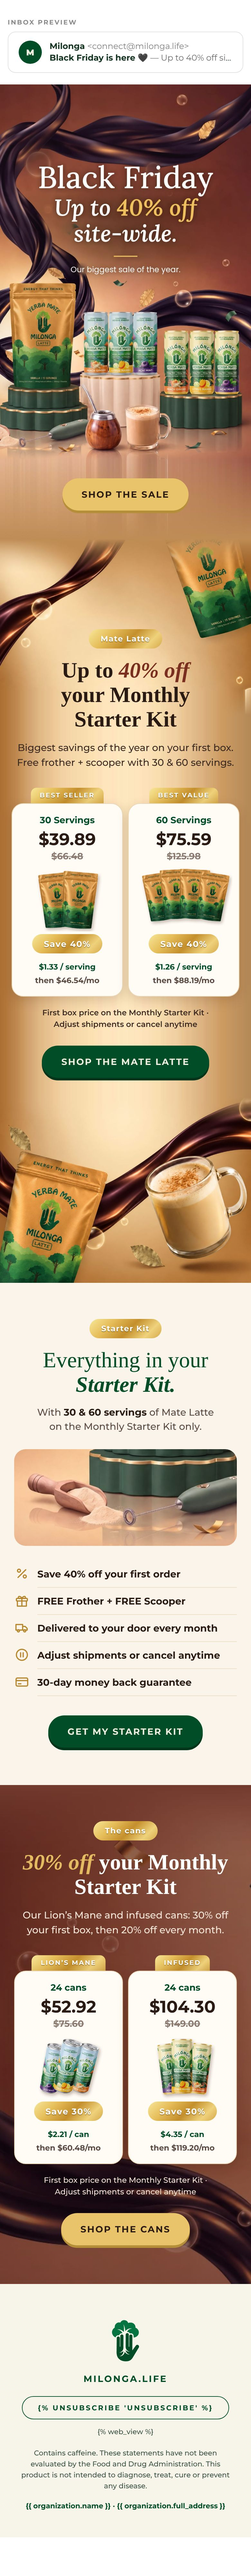
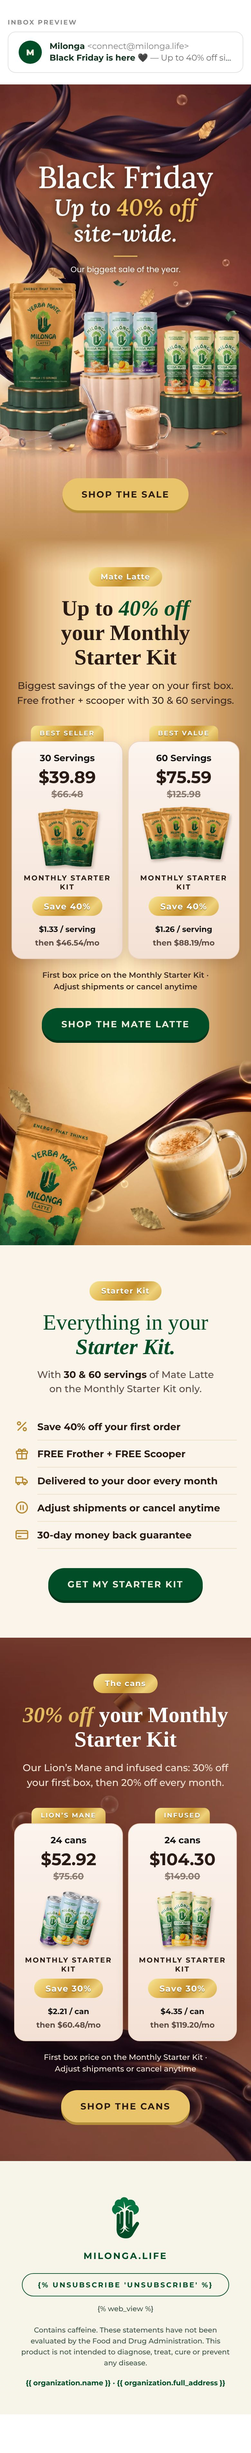
Black Friday 2026 v4: title higher, blush cards with Monthly Starter Kit label, black type, no tools photo
Claude-Session: https://claude.ai/code/session_01NhEtXPnfeCJfN73SqBkUZ5

diff --git a/email-ds/exports/klaviyo/bf-2026/bf-2026.html b/email-ds/exports/klaviyo/bf-2026/bf-2026.html
@@ -35,7 +35,7 @@
     .c-price { font-size:26px !important; line-height:30px !important; }
     .c-img { width:150px !important; height:100px !important; }
     .c-unit { font-size:12px !important; }
-    .ml-sec { padding:140px 14px 30px !important; background-size:100% auto !important; }
+    .ml-sec { padding:44px 14px 30px !important; background-size:100% auto !important; }
     .kit { padding-left:22px !important; padding-right:22px !important; }
     .kit-list { width:100% !important; }
     .btn { padding:17px 30px !important; font-size:14px !important; letter-spacing:1.5px !important; }
@@ -65,21 +65,22 @@
 
 <!-- ── 2 · MATE LATTE · the gold scene with its liquid turned dark chocolate is the background; the scene's
      pouch and latte close the section ── -->
-<tr><td class="ml-sec" align="center" valign="top" background="https://cdn.klaviyomail.com/company/TwvSnK/images/287e86d2-df81-468b-888f-244da2249d89.jpeg" bgcolor="#E5C08F" style="background-color:#E5C08F;background-image:url('https://cdn.klaviyomail.com/company/TwvSnK/images/287e86d2-df81-468b-888f-244da2249d89.jpeg');background-size:100% auto;background-position:center top;background-repeat:no-repeat;padding:212px 22px 34px;font-family:'Montserrat','Helvetica Neue',Helvetica,Arial,sans-serif;">
+<tr><td class="ml-sec" align="center" valign="top" background="https://cdn.klaviyomail.com/company/TwvSnK/images/287e86d2-df81-468b-888f-244da2249d89.jpeg" bgcolor="#E5C08F" style="background-color:#E5C08F;background-image:url('https://cdn.klaviyomail.com/company/TwvSnK/images/287e86d2-df81-468b-888f-244da2249d89.jpeg');background-size:100% auto;background-position:center top;background-repeat:no-repeat;padding:56px 22px 34px;font-family:'Montserrat','Helvetica Neue',Helvetica,Arial,sans-serif;">
 <table role="presentation" cellpadding="0" cellspacing="0" border="0" align="center" style="margin:0 auto;border-collapse:separate;"><tr><td bgcolor="#D2A346" style="background-color:#D2A346;background-image:linear-gradient(135deg,#F8E79A 0%,#E6BE5A 28%,#C48F2C 55%,#EFD27C 80%,#D5A84A 100%);border-radius:999px;padding:7px 18px;font-family:'Montserrat','Helvetica Neue',Helvetica,Arial,sans-serif;font-size:12px;line-height:16px;font-weight:700;letter-spacing:1px;color:#FFFFFF;text-shadow:0 1px 1px rgba(90,55,10,.55);white-space:nowrap;">Mate Latte</td></tr></table>
-<div class="h-offer" style="padding-top:16px;font-family:'Times New Roman',Times,Georgia,serif;font-size:42px;line-height:46px;font-weight:700;color:#2A1A14;">Up to <span style="color:#7A2E1F;font-style:italic;">40% off</span> <span style="white-space:nowrap;">your Monthly</span> <span style="white-space:nowrap;">Starter Kit</span></div>
+<div class="h-offer" style="padding-top:16px;font-family:'Times New Roman',Times,Georgia,serif;font-size:42px;line-height:46px;font-weight:700;color:#2A1A14;">Up to <span style="color:#004D27;font-style:italic;">40% off</span> <span style="white-space:nowrap;">your Monthly</span> <span style="white-space:nowrap;">Starter Kit</span></div>
 <div class="lead" style="padding-top:12px;font-size:15px;line-height:22px;font-weight:500;color:#3A2A22;">Biggest savings of the year on your first box. <span style="white-space:nowrap;">Free frother + scooper</span> <span style="white-space:nowrap;">with 30 & 60 servings.</span></div>
 <div style="padding-top:28px;"><table role="presentation" width="100%" cellpadding="0" cellspacing="0" border="0" style="table-layout:fixed;"><tr>
 <td class="card-col" align="center" valign="top" width="50%" style="width:50%;padding:0 8px;">
 <table role="presentation" cellpadding="0" cellspacing="0" border="0" align="center" style="margin:0 auto;border-collapse:separate;"><tr><td bgcolor="#D2A346" style="background-color:#D2A346;background-image:linear-gradient(135deg,#F8E79A 0%,#E6BE5A 28%,#C48F2C 55%,#EFD27C 80%,#D5A84A 100%);border-radius:9px 9px 0 0;padding:5px 14px;font-family:'Montserrat','Helvetica Neue',Helvetica,Arial,sans-serif;font-size:10px;line-height:14px;font-weight:700;letter-spacing:1.5px;text-transform:uppercase;color:#FFFFFF;text-shadow:0 1px 1px rgba(90,55,10,.55);white-space:nowrap;">Best seller</td></tr></table>
 <a href="https://milonga.life/products/the-original-mate-latte?selling_plan=8837562678&amp;variant=54302750245174&amp;utm_source=klaviyo&amp;utm_medium=email&amp;utm_campaign=black_friday_2026&amp;utm_content=bf_ml_30" target="_blank" style="text-decoration:none;display:block;">
-<table role="presentation" width="100%" cellpadding="0" cellspacing="0" border="0" style="border-collapse:separate;"><tr><td class="card" align="center" bgcolor="#FFFBF5" style="background-color:#FFFBF5;border:1px solid #EAD6B4;border-radius:18px;padding:20px 10px 18px;font-family:'Montserrat','Helvetica Neue',Helvetica,Arial,sans-serif;box-shadow:0 6px 18px rgba(60,30,10,.18);">
-<div style="font-size:14px;line-height:18px;font-weight:700;color:#004D27;">30 Servings</div>
+<table role="presentation" width="100%" cellpadding="0" cellspacing="0" border="0" style="border-collapse:separate;"><tr><td class="card" align="center" bgcolor="#F6E6DC" style="background-color:#F6E6DC;background-image:linear-gradient(180deg,#FCF4EE 0%,#F4E1D5 100%);border:1px solid #EBD3C4;border-radius:18px;padding:20px 10px 18px;font-family:'Montserrat','Helvetica Neue',Helvetica,Arial,sans-serif;box-shadow:0 6px 18px rgba(60,30,10,.18);">
+<div style="font-size:14px;line-height:18px;font-weight:700;color:#141414;">30 Servings</div>
 <div class="c-price" style="padding-top:6px;font-size:34px;line-height:38px;font-weight:700;color:#2A1A14;">$39.89</div>
 <div style="padding-top:2px;font-size:14px;line-height:18px;font-weight:700;color:#8A7A70;text-decoration:line-through;">$66.48</div>
 <img class="c-img" src="https://cdn.klaviyomail.com/company/TwvSnK/images/7b6e7cd1-ea70-4c06-80c6-dc8d8365da27.png" width="210" height="140" alt="Two Mate Latte pouches" style="display:block;margin:8px auto 4px;width:210px;height:140px;border:0;">
+<div style="padding:2px 0 8px;font-size:11px;line-height:14px;font-weight:700;letter-spacing:1.5px;text-transform:uppercase;color:#2A1A14;">Monthly Starter Kit</div>
 <table role="presentation" cellpadding="0" cellspacing="0" border="0" align="center" style="margin:0 auto;border-collapse:separate;"><tr><td bgcolor="#D2A346" style="background-color:#D2A346;background-image:linear-gradient(135deg,#F8E79A 0%,#E6BE5A 28%,#C48F2C 55%,#EFD27C 80%,#D5A84A 100%);border-radius:999px;padding:7px 18px;font-family:'Montserrat','Helvetica Neue',Helvetica,Arial,sans-serif;font-size:13px;line-height:16px;font-weight:700;letter-spacing:1px;color:#FFFFFF;text-shadow:0 1px 1px rgba(90,55,10,.55);white-space:nowrap;">Save 40%</td></tr></table>
-<div class="c-unit" style="padding-top:12px;font-size:14px;line-height:18px;font-weight:700;color:#004D27;">$1.33 / serving</div>
+<div class="c-unit" style="padding-top:12px;font-size:14px;line-height:18px;font-weight:700;color:#141414;">$1.33 / serving</div>
 <div style="padding-top:4px;font-size:12px;line-height:16px;font-weight:700;color:#5A4A42;">then $46.54/mo</div>
 </td></tr></table>
 </a>
@@ -87,13 +88,14 @@
 <td class="card-col" align="center" valign="top" width="50%" style="width:50%;padding:0 8px;">
 <table role="presentation" cellpadding="0" cellspacing="0" border="0" align="center" style="margin:0 auto;border-collapse:separate;"><tr><td bgcolor="#D2A346" style="background-color:#D2A346;background-image:linear-gradient(135deg,#F8E79A 0%,#E6BE5A 28%,#C48F2C 55%,#EFD27C 80%,#D5A84A 100%);border-radius:9px 9px 0 0;padding:5px 14px;font-family:'Montserrat','Helvetica Neue',Helvetica,Arial,sans-serif;font-size:10px;line-height:14px;font-weight:700;letter-spacing:1.5px;text-transform:uppercase;color:#FFFFFF;text-shadow:0 1px 1px rgba(90,55,10,.55);white-space:nowrap;">Best value</td></tr></table>
 <a href="https://milonga.life/products/the-original-mate-latte?selling_plan=8837562678&amp;variant=54302750277942&amp;utm_source=klaviyo&amp;utm_medium=email&amp;utm_campaign=black_friday_2026&amp;utm_content=bf_ml_60" target="_blank" style="text-decoration:none;display:block;">
-<table role="presentation" width="100%" cellpadding="0" cellspacing="0" border="0" style="border-collapse:separate;"><tr><td class="card" align="center" bgcolor="#FFFBF5" style="background-color:#FFFBF5;border:1px solid #EAD6B4;border-radius:18px;padding:20px 10px 18px;font-family:'Montserrat','Helvetica Neue',Helvetica,Arial,sans-serif;box-shadow:0 6px 18px rgba(60,30,10,.18);">
-<div style="font-size:14px;line-height:18px;font-weight:700;color:#004D27;">60 Servings</div>
+<table role="presentation" width="100%" cellpadding="0" cellspacing="0" border="0" style="border-collapse:separate;"><tr><td class="card" align="center" bgcolor="#F6E6DC" style="background-color:#F6E6DC;background-image:linear-gradient(180deg,#FCF4EE 0%,#F4E1D5 100%);border:1px solid #EBD3C4;border-radius:18px;padding:20px 10px 18px;font-family:'Montserrat','Helvetica Neue',Helvetica,Arial,sans-serif;box-shadow:0 6px 18px rgba(60,30,10,.18);">
+<div style="font-size:14px;line-height:18px;font-weight:700;color:#141414;">60 Servings</div>
 <div class="c-price" style="padding-top:6px;font-size:34px;line-height:38px;font-weight:700;color:#2A1A14;">$75.59</div>
 <div style="padding-top:2px;font-size:14px;line-height:18px;font-weight:700;color:#8A7A70;text-decoration:line-through;">$125.98</div>
 <img class="c-img" src="https://cdn.klaviyomail.com/company/TwvSnK/images/cb792bc0-a51c-4dee-8953-5c1e406d2ee3.png" width="210" height="140" alt="Four Mate Latte pouches" style="display:block;margin:8px auto 4px;width:210px;height:140px;border:0;">
+<div style="padding:2px 0 8px;font-size:11px;line-height:14px;font-weight:700;letter-spacing:1.5px;text-transform:uppercase;color:#2A1A14;">Monthly Starter Kit</div>
 <table role="presentation" cellpadding="0" cellspacing="0" border="0" align="center" style="margin:0 auto;border-collapse:separate;"><tr><td bgcolor="#D2A346" style="background-color:#D2A346;background-image:linear-gradient(135deg,#F8E79A 0%,#E6BE5A 28%,#C48F2C 55%,#EFD27C 80%,#D5A84A 100%);border-radius:999px;padding:7px 18px;font-family:'Montserrat','Helvetica Neue',Helvetica,Arial,sans-serif;font-size:13px;line-height:16px;font-weight:700;letter-spacing:1px;color:#FFFFFF;text-shadow:0 1px 1px rgba(90,55,10,.55);white-space:nowrap;">Save 40%</td></tr></table>
-<div class="c-unit" style="padding-top:12px;font-size:14px;line-height:18px;font-weight:700;color:#004D27;">$1.26 / serving</div>
+<div class="c-unit" style="padding-top:12px;font-size:14px;line-height:18px;font-weight:700;color:#141414;">$1.26 / serving</div>
 <div style="padding-top:4px;font-size:12px;line-height:16px;font-weight:700;color:#5A4A42;">then $88.19/mo</div>
 </td></tr></table>
 </a>
@@ -112,8 +114,7 @@
 <div class="h-offer" style="padding-top:16px;font-family:'Times New Roman',Times,Georgia,serif;font-size:40px;line-height:44px;font-weight:400;color:#004D27;">Everything in your</div>
 <div class="h-offer" style="font-family:'Times New Roman',Times,Georgia,serif;font-size:40px;line-height:44px;font-weight:700;font-style:italic;color:#004D27;">Starter Kit.</div>
 <div style="padding-top:12px;font-size:15px;line-height:22px;font-weight:500;color:#5A4A42;">With <b style="color:#2A1A14;">30 &amp; 60 servings</b> of Mate Latte <span style="white-space:nowrap;">on the Monthly Starter Kit only.</span></div>
-<div style="padding-top:24px;"><img class="photo" src="https://cdn.klaviyomail.com/company/TwvSnK/images/321ea88e-d0b0-4ecd-80c0-7d81972eb7c6.jpeg" width="500" height="217" alt="The frother and the scooper" style="display:block;margin:0 auto;width:500px;height:217px;border:0;border-radius:18px;"></div>
-<table role="presentation" class="kit-list" width="380" cellpadding="0" cellspacing="0" border="0" align="center" style="margin:22px auto 0;width:380px;text-align:left;">
+<table role="presentation" class="kit-list" width="380" cellpadding="0" cellspacing="0" border="0" align="center" style="margin:26px auto 0;width:380px;text-align:left;">
 <tr><td width="36" valign="middle" style="width:36px;padding:9px 0;"><img src="https://cdn.klaviyomail.com/company/TwvSnK/images/298dca91-c865-4fbd-a20a-7eef59dfd2a5.png" width="24" height="24" alt="" role="presentation" style="display:block;width:24px;height:24px;border:0;"></td><td valign="middle" style="padding:9px 0;font-family:'Montserrat','Helvetica Neue',Helvetica,Arial,sans-serif;font-size:15px;line-height:21px;font-weight:700;color:#2A1A14;border-bottom:1px solid #EFDFC6;">Save 40% off your first order</td></tr>
 <tr><td width="36" valign="middle" style="width:36px;padding:9px 0;"><img src="https://cdn.klaviyomail.com/company/TwvSnK/images/6ea66d49-d17e-4842-b7ef-51cfed05a0a5.png" width="24" height="24" alt="" role="presentation" style="display:block;width:24px;height:24px;border:0;"></td><td valign="middle" style="padding:9px 0;font-family:'Montserrat','Helvetica Neue',Helvetica,Arial,sans-serif;font-size:15px;line-height:21px;font-weight:700;color:#2A1A14;border-bottom:1px solid #EFDFC6;">FREE Frother + FREE Scooper</td></tr>
 <tr><td width="36" valign="middle" style="width:36px;padding:9px 0;"><img src="https://cdn.klaviyomail.com/company/TwvSnK/images/abfab9c8-eb93-4d4a-8f54-6b63d7238e4b.png" width="24" height="24" alt="" role="presentation" style="display:block;width:24px;height:24px;border:0;"></td><td valign="middle" style="padding:9px 0;font-family:'Montserrat','Helvetica Neue',Helvetica,Arial,sans-serif;font-size:15px;line-height:21px;font-weight:700;color:#2A1A14;border-bottom:1px solid #EFDFC6;">Delivered to your door every month</td></tr>
@@ -134,13 +135,14 @@
 <td class="card-col" align="center" valign="top" width="50%" style="width:50%;padding:0 8px;">
 <table role="presentation" cellpadding="0" cellspacing="0" border="0" align="center" style="margin:0 auto;border-collapse:separate;"><tr><td bgcolor="#D2A346" style="background-color:#D2A346;background-image:linear-gradient(135deg,#F8E79A 0%,#E6BE5A 28%,#C48F2C 55%,#EFD27C 80%,#D5A84A 100%);border-radius:9px 9px 0 0;padding:5px 14px;font-family:'Montserrat','Helvetica Neue',Helvetica,Arial,sans-serif;font-size:10px;line-height:14px;font-weight:700;letter-spacing:1.5px;text-transform:uppercase;color:#FFFFFF;text-shadow:0 1px 1px rgba(90,55,10,.55);white-space:nowrap;">Lion’s Mane</td></tr></table>
 <a href="https://milonga.life/products/lion-s-mane?selling_plan=6832750902&amp;variant=53053588701494&amp;utm_source=klaviyo&amp;utm_medium=email&amp;utm_campaign=black_friday_2026&amp;utm_content=bf_cans_lm" target="_blank" style="text-decoration:none;display:block;">
-<table role="presentation" width="100%" cellpadding="0" cellspacing="0" border="0" style="border-collapse:separate;"><tr><td class="card" align="center" bgcolor="#FFFBF5" style="background-color:#FFFBF5;border:1px solid #EAD6B4;border-radius:18px;padding:20px 10px 18px;font-family:'Montserrat','Helvetica Neue',Helvetica,Arial,sans-serif;box-shadow:0 6px 18px rgba(60,30,10,.18);">
-<div style="font-size:14px;line-height:18px;font-weight:700;color:#004D27;">24 cans</div>
+<table role="presentation" width="100%" cellpadding="0" cellspacing="0" border="0" style="border-collapse:separate;"><tr><td class="card" align="center" bgcolor="#F6E6DC" style="background-color:#F6E6DC;background-image:linear-gradient(180deg,#FCF4EE 0%,#F4E1D5 100%);border:1px solid #EBD3C4;border-radius:18px;padding:20px 10px 18px;font-family:'Montserrat','Helvetica Neue',Helvetica,Arial,sans-serif;box-shadow:0 6px 18px rgba(60,30,10,.18);">
+<div style="font-size:14px;line-height:18px;font-weight:700;color:#141414;">24 cans</div>
 <div class="c-price" style="padding-top:6px;font-size:34px;line-height:38px;font-weight:700;color:#2A1A14;">$52.92</div>
 <div style="padding-top:2px;font-size:14px;line-height:18px;font-weight:700;color:#8A7A70;text-decoration:line-through;">$75.60</div>
 <img class="c-img" src="https://cdn.klaviyomail.com/company/TwvSnK/images/75cbdfff-bfb1-4106-a2c3-a65d9a4b90b3.png" width="210" height="140" alt="Lion’s Mane cans" style="display:block;margin:8px auto 4px;width:210px;height:140px;border:0;">
+<div style="padding:2px 0 8px;font-size:11px;line-height:14px;font-weight:700;letter-spacing:1.5px;text-transform:uppercase;color:#2A1A14;">Monthly Starter Kit</div>
 <table role="presentation" cellpadding="0" cellspacing="0" border="0" align="center" style="margin:0 auto;border-collapse:separate;"><tr><td bgcolor="#D2A346" style="background-color:#D2A346;background-image:linear-gradient(135deg,#F8E79A 0%,#E6BE5A 28%,#C48F2C 55%,#EFD27C 80%,#D5A84A 100%);border-radius:999px;padding:7px 18px;font-family:'Montserrat','Helvetica Neue',Helvetica,Arial,sans-serif;font-size:13px;line-height:16px;font-weight:700;letter-spacing:1px;color:#FFFFFF;text-shadow:0 1px 1px rgba(90,55,10,.55);white-space:nowrap;">Save 30%</td></tr></table>
-<div class="c-unit" style="padding-top:12px;font-size:14px;line-height:18px;font-weight:700;color:#004D27;">$2.21 / can</div>
+<div class="c-unit" style="padding-top:12px;font-size:14px;line-height:18px;font-weight:700;color:#141414;">$2.21 / can</div>
 <div style="padding-top:4px;font-size:12px;line-height:16px;font-weight:700;color:#5A4A42;">then $60.48/mo</div>
 </td></tr></table>
 </a>
@@ -148,13 +150,14 @@
 <td class="card-col" align="center" valign="top" width="50%" style="width:50%;padding:0 8px;">
 <table role="presentation" cellpadding="0" cellspacing="0" border="0" align="center" style="margin:0 auto;border-collapse:separate;"><tr><td bgcolor="#D2A346" style="background-color:#D2A346;background-image:linear-gradient(135deg,#F8E79A 0%,#E6BE5A 28%,#C48F2C 55%,#EFD27C 80%,#D5A84A 100%);border-radius:9px 9px 0 0;padding:5px 14px;font-family:'Montserrat','Helvetica Neue',Helvetica,Arial,sans-serif;font-size:10px;line-height:14px;font-weight:700;letter-spacing:1.5px;text-transform:uppercase;color:#FFFFFF;text-shadow:0 1px 1px rgba(90,55,10,.55);white-space:nowrap;">Infused</td></tr></table>
 <a href="https://milonga.life/products/cannabis-regular-10mg?selling_plan=6832750902&amp;variant=52759098196278&amp;utm_source=klaviyo&amp;utm_medium=email&amp;utm_campaign=black_friday_2026&amp;utm_content=bf_cans_infused" target="_blank" style="text-decoration:none;display:block;">
-<table role="presentation" width="100%" cellpadding="0" cellspacing="0" border="0" style="border-collapse:separate;"><tr><td class="card" align="center" bgcolor="#FFFBF5" style="background-color:#FFFBF5;border:1px solid #EAD6B4;border-radius:18px;padding:20px 10px 18px;font-family:'Montserrat','Helvetica Neue',Helvetica,Arial,sans-serif;box-shadow:0 6px 18px rgba(60,30,10,.18);">
-<div style="font-size:14px;line-height:18px;font-weight:700;color:#004D27;">24 cans</div>
+<table role="presentation" width="100%" cellpadding="0" cellspacing="0" border="0" style="border-collapse:separate;"><tr><td class="card" align="center" bgcolor="#F6E6DC" style="background-color:#F6E6DC;background-image:linear-gradient(180deg,#FCF4EE 0%,#F4E1D5 100%);border:1px solid #EBD3C4;border-radius:18px;padding:20px 10px 18px;font-family:'Montserrat','Helvetica Neue',Helvetica,Arial,sans-serif;box-shadow:0 6px 18px rgba(60,30,10,.18);">
+<div style="font-size:14px;line-height:18px;font-weight:700;color:#141414;">24 cans</div>
 <div class="c-price" style="padding-top:6px;font-size:34px;line-height:38px;font-weight:700;color:#2A1A14;">$104.30</div>
 <div style="padding-top:2px;font-size:14px;line-height:18px;font-weight:700;color:#8A7A70;text-decoration:line-through;">$149.00</div>
 <img class="c-img" src="https://cdn.klaviyomail.com/company/TwvSnK/images/35f74bfe-ba66-4b5b-af58-0e2a2870cf23.png" width="210" height="140" alt="Infused yerba mate cans" style="display:block;margin:8px auto 4px;width:210px;height:140px;border:0;">
+<div style="padding:2px 0 8px;font-size:11px;line-height:14px;font-weight:700;letter-spacing:1.5px;text-transform:uppercase;color:#2A1A14;">Monthly Starter Kit</div>
 <table role="presentation" cellpadding="0" cellspacing="0" border="0" align="center" style="margin:0 auto;border-collapse:separate;"><tr><td bgcolor="#D2A346" style="background-color:#D2A346;background-image:linear-gradient(135deg,#F8E79A 0%,#E6BE5A 28%,#C48F2C 55%,#EFD27C 80%,#D5A84A 100%);border-radius:999px;padding:7px 18px;font-family:'Montserrat','Helvetica Neue',Helvetica,Arial,sans-serif;font-size:13px;line-height:16px;font-weight:700;letter-spacing:1px;color:#FFFFFF;text-shadow:0 1px 1px rgba(90,55,10,.55);white-space:nowrap;">Save 30%</td></tr></table>
-<div class="c-unit" style="padding-top:12px;font-size:14px;line-height:18px;font-weight:700;color:#004D27;">$4.35 / can</div>
+<div class="c-unit" style="padding-top:12px;font-size:14px;line-height:18px;font-weight:700;color:#141414;">$4.35 / can</div>
 <div style="padding-top:4px;font-size:12px;line-height:16px;font-weight:700;color:#5A4A42;">then $119.20/mo</div>
 </td></tr></table>
 </a>

diff --git a/email-ds/refine/bf-2026.html b/email-ds/refine/bf-2026.html
@@ -33,7 +33,7 @@ body{margin:0;background:#FFFFFF;padding:28px 0 60px}
     .c-price { font-size:26px !important; line-height:30px !important; }
     .c-img { width:150px !important; height:100px !important; }
     .c-unit { font-size:12px !important; }
-    .ml-sec { padding:140px 14px 30px !important; background-size:100% auto !important; }
+    .ml-sec { padding:44px 14px 30px !important; background-size:100% auto !important; }
     .kit { padding-left:22px !important; padding-right:22px !important; }
     .kit-list { width:100% !important; }
     .btn { padding:17px 30px !important; font-size:14px !important; letter-spacing:1.5px !important; }
@@ -64,21 +64,22 @@ body{margin:0;background:#FFFFFF;padding:28px 0 60px}
 
 <!-- ── 2 · MATE LATTE · the gold scene with its liquid turned dark chocolate is the background; the scene's
      pouch and latte close the section ── -->
-<tr><td class="ml-sec" align="center" valign="top" background="../exports/klaviyo/bf-2026/img/ml-bg.jpg" bgcolor="#E5C08F" style="background-color:#E5C08F;background-image:url('../exports/klaviyo/bf-2026/img/ml-bg.jpg');background-size:100% auto;background-position:center top;background-repeat:no-repeat;padding:212px 22px 34px;font-family:'Montserrat','Helvetica Neue',Helvetica,Arial,sans-serif;">
+<tr><td class="ml-sec" align="center" valign="top" background="../exports/klaviyo/bf-2026/img/ml-bg.jpg" bgcolor="#E5C08F" style="background-color:#E5C08F;background-image:url('../exports/klaviyo/bf-2026/img/ml-bg.jpg');background-size:100% auto;background-position:center top;background-repeat:no-repeat;padding:56px 22px 34px;font-family:'Montserrat','Helvetica Neue',Helvetica,Arial,sans-serif;">
 <table role="presentation" cellpadding="0" cellspacing="0" border="0" align="center" style="margin:0 auto;border-collapse:separate;"><tr><td bgcolor="#D2A346" style="background-color:#D2A346;background-image:linear-gradient(135deg,#F8E79A 0%,#E6BE5A 28%,#C48F2C 55%,#EFD27C 80%,#D5A84A 100%);border-radius:999px;padding:7px 18px;font-family:'Montserrat','Helvetica Neue',Helvetica,Arial,sans-serif;font-size:12px;line-height:16px;font-weight:700;letter-spacing:1px;color:#FFFFFF;text-shadow:0 1px 1px rgba(90,55,10,.55);white-space:nowrap;">Mate Latte</td></tr></table>
-<div class="h-offer" style="padding-top:16px;font-family:'Times New Roman',Times,Georgia,serif;font-size:42px;line-height:46px;font-weight:700;color:#2A1A14;">Up to <span style="color:#7A2E1F;font-style:italic;">40% off</span> <span style="white-space:nowrap;">your Monthly</span> <span style="white-space:nowrap;">Starter Kit</span></div>
+<div class="h-offer" style="padding-top:16px;font-family:'Times New Roman',Times,Georgia,serif;font-size:42px;line-height:46px;font-weight:700;color:#2A1A14;">Up to <span style="color:#004D27;font-style:italic;">40% off</span> <span style="white-space:nowrap;">your Monthly</span> <span style="white-space:nowrap;">Starter Kit</span></div>
 <div class="lead" style="padding-top:12px;font-size:15px;line-height:22px;font-weight:500;color:#3A2A22;">Biggest savings of the year on your first box. <span style="white-space:nowrap;">Free frother + scooper</span> <span style="white-space:nowrap;">with 30 & 60 servings.</span></div>
 <div style="padding-top:28px;"><table role="presentation" width="100%" cellpadding="0" cellspacing="0" border="0" style="table-layout:fixed;"><tr>
 <td class="card-col" align="center" valign="top" width="50%" style="width:50%;padding:0 8px;">
 <table role="presentation" cellpadding="0" cellspacing="0" border="0" align="center" style="margin:0 auto;border-collapse:separate;"><tr><td bgcolor="#D2A346" style="background-color:#D2A346;background-image:linear-gradient(135deg,#F8E79A 0%,#E6BE5A 28%,#C48F2C 55%,#EFD27C 80%,#D5A84A 100%);border-radius:9px 9px 0 0;padding:5px 14px;font-family:'Montserrat','Helvetica Neue',Helvetica,Arial,sans-serif;font-size:10px;line-height:14px;font-weight:700;letter-spacing:1.5px;text-transform:uppercase;color:#FFFFFF;text-shadow:0 1px 1px rgba(90,55,10,.55);white-space:nowrap;">Best seller</td></tr></table>
 <a href="https://milonga.life/products/the-original-mate-latte?selling_plan=8837562678&amp;variant=54302750245174&amp;utm_source=klaviyo&amp;utm_medium=email&amp;utm_campaign=black_friday_2026&amp;utm_content=bf_ml_30" target="_blank" style="text-decoration:none;display:block;">
-<table role="presentation" width="100%" cellpadding="0" cellspacing="0" border="0" style="border-collapse:separate;"><tr><td class="card" align="center" bgcolor="#FFFBF5" style="background-color:#FFFBF5;border:1px solid #EAD6B4;border-radius:18px;padding:20px 10px 18px;font-family:'Montserrat','Helvetica Neue',Helvetica,Arial,sans-serif;box-shadow:0 6px 18px rgba(60,30,10,.18);">
-<div style="font-size:14px;line-height:18px;font-weight:700;color:#004D27;">30 Servings</div>
+<table role="presentation" width="100%" cellpadding="0" cellspacing="0" border="0" style="border-collapse:separate;"><tr><td class="card" align="center" bgcolor="#F6E6DC" style="background-color:#F6E6DC;background-image:linear-gradient(180deg,#FCF4EE 0%,#F4E1D5 100%);border:1px solid #EBD3C4;border-radius:18px;padding:20px 10px 18px;font-family:'Montserrat','Helvetica Neue',Helvetica,Arial,sans-serif;box-shadow:0 6px 18px rgba(60,30,10,.18);">
+<div style="font-size:14px;line-height:18px;font-weight:700;color:#141414;">30 Servings</div>
 <div class="c-price" style="padding-top:6px;font-size:34px;line-height:38px;font-weight:700;color:#2A1A14;">$39.89</div>
 <div style="padding-top:2px;font-size:14px;line-height:18px;font-weight:700;color:#8A7A70;text-decoration:line-through;">$66.48</div>
 <img class="c-img" src="../exports/klaviyo/bf-2026/img/bags-30.png" width="210" height="140" alt="Two Mate Latte pouches" style="display:block;margin:8px auto 4px;width:210px;height:140px;border:0;">
+<div style="padding:2px 0 8px;font-size:11px;line-height:14px;font-weight:700;letter-spacing:1.5px;text-transform:uppercase;color:#2A1A14;">Monthly Starter Kit</div>
 <table role="presentation" cellpadding="0" cellspacing="0" border="0" align="center" style="margin:0 auto;border-collapse:separate;"><tr><td bgcolor="#D2A346" style="background-color:#D2A346;background-image:linear-gradient(135deg,#F8E79A 0%,#E6BE5A 28%,#C48F2C 55%,#EFD27C 80%,#D5A84A 100%);border-radius:999px;padding:7px 18px;font-family:'Montserrat','Helvetica Neue',Helvetica,Arial,sans-serif;font-size:13px;line-height:16px;font-weight:700;letter-spacing:1px;color:#FFFFFF;text-shadow:0 1px 1px rgba(90,55,10,.55);white-space:nowrap;">Save 40%</td></tr></table>
-<div class="c-unit" style="padding-top:12px;font-size:14px;line-height:18px;font-weight:700;color:#004D27;">$1.33 / serving</div>
+<div class="c-unit" style="padding-top:12px;font-size:14px;line-height:18px;font-weight:700;color:#141414;">$1.33 / serving</div>
 <div style="padding-top:4px;font-size:12px;line-height:16px;font-weight:700;color:#5A4A42;">then $46.54/mo</div>
 </td></tr></table>
 </a>
@@ -86,13 +87,14 @@ body{margin:0;background:#FFFFFF;padding:28px 0 60px}
 <td class="card-col" align="center" valign="top" width="50%" style="width:50%;padding:0 8px;">
 <table role="presentation" cellpadding="0" cellspacing="0" border="0" align="center" style="margin:0 auto;border-collapse:separate;"><tr><td bgcolor="#D2A346" style="background-color:#D2A346;background-image:linear-gradient(135deg,#F8E79A 0%,#E6BE5A 28%,#C48F2C 55%,#EFD27C 80%,#D5A84A 100%);border-radius:9px 9px 0 0;padding:5px 14px;font-family:'Montserrat','Helvetica Neue',Helvetica,Arial,sans-serif;font-size:10px;line-height:14px;font-weight:700;letter-spacing:1.5px;text-transform:uppercase;color:#FFFFFF;text-shadow:0 1px 1px rgba(90,55,10,.55);white-space:nowrap;">Best value</td></tr></table>
 <a href="https://milonga.life/products/the-original-mate-latte?selling_plan=8837562678&amp;variant=54302750277942&amp;utm_source=klaviyo&amp;utm_medium=email&amp;utm_campaign=black_friday_2026&amp;utm_content=bf_ml_60" target="_blank" style="text-decoration:none;display:block;">
-<table role="presentation" width="100%" cellpadding="0" cellspacing="0" border="0" style="border-collapse:separate;"><tr><td class="card" align="center" bgcolor="#FFFBF5" style="background-color:#FFFBF5;border:1px solid #EAD6B4;border-radius:18px;padding:20px 10px 18px;font-family:'Montserrat','Helvetica Neue',Helvetica,Arial,sans-serif;box-shadow:0 6px 18px rgba(60,30,10,.18);">
-<div style="font-size:14px;line-height:18px;font-weight:700;color:#004D27;">60 Servings</div>
+<table role="presentation" width="100%" cellpadding="0" cellspacing="0" border="0" style="border-collapse:separate;"><tr><td class="card" align="center" bgcolor="#F6E6DC" style="background-color:#F6E6DC;background-image:linear-gradient(180deg,#FCF4EE 0%,#F4E1D5 100%);border:1px solid #EBD3C4;border-radius:18px;padding:20px 10px 18px;font-family:'Montserrat','Helvetica Neue',Helvetica,Arial,sans-serif;box-shadow:0 6px 18px rgba(60,30,10,.18);">
+<div style="font-size:14px;line-height:18px;font-weight:700;color:#141414;">60 Servings</div>
 <div class="c-price" style="padding-top:6px;font-size:34px;line-height:38px;font-weight:700;color:#2A1A14;">$75.59</div>
 <div style="padding-top:2px;font-size:14px;line-height:18px;font-weight:700;color:#8A7A70;text-decoration:line-through;">$125.98</div>
 <img class="c-img" src="../exports/klaviyo/bf-2026/img/bags-60.png" width="210" height="140" alt="Four Mate Latte pouches" style="display:block;margin:8px auto 4px;width:210px;height:140px;border:0;">
+<div style="padding:2px 0 8px;font-size:11px;line-height:14px;font-weight:700;letter-spacing:1.5px;text-transform:uppercase;color:#2A1A14;">Monthly Starter Kit</div>
 <table role="presentation" cellpadding="0" cellspacing="0" border="0" align="center" style="margin:0 auto;border-collapse:separate;"><tr><td bgcolor="#D2A346" style="background-color:#D2A346;background-image:linear-gradient(135deg,#F8E79A 0%,#E6BE5A 28%,#C48F2C 55%,#EFD27C 80%,#D5A84A 100%);border-radius:999px;padding:7px 18px;font-family:'Montserrat','Helvetica Neue',Helvetica,Arial,sans-serif;font-size:13px;line-height:16px;font-weight:700;letter-spacing:1px;color:#FFFFFF;text-shadow:0 1px 1px rgba(90,55,10,.55);white-space:nowrap;">Save 40%</td></tr></table>
-<div class="c-unit" style="padding-top:12px;font-size:14px;line-height:18px;font-weight:700;color:#004D27;">$1.26 / serving</div>
+<div class="c-unit" style="padding-top:12px;font-size:14px;line-height:18px;font-weight:700;color:#141414;">$1.26 / serving</div>
 <div style="padding-top:4px;font-size:12px;line-height:16px;font-weight:700;color:#5A4A42;">then $88.19/mo</div>
 </td></tr></table>
 </a>
@@ -111,8 +113,7 @@ body{margin:0;background:#FFFFFF;padding:28px 0 60px}
 <div class="h-offer" style="padding-top:16px;font-family:'Times New Roman',Times,Georgia,serif;font-size:40px;line-height:44px;font-weight:400;color:#004D27;">Everything in your</div>
 <div class="h-offer" style="font-family:'Times New Roman',Times,Georgia,serif;font-size:40px;line-height:44px;font-weight:700;font-style:italic;color:#004D27;">Starter Kit.</div>
 <div style="padding-top:12px;font-size:15px;line-height:22px;font-weight:500;color:#5A4A42;">With <b style="color:#2A1A14;">30 &amp; 60 servings</b> of Mate Latte <span style="white-space:nowrap;">on the Monthly Starter Kit only.</span></div>
-<div style="padding-top:24px;"><img class="photo" src="../exports/klaviyo/bf-2026/img/kit-tools.jpg" width="500" height="217" alt="The frother and the scooper" style="display:block;margin:0 auto;width:500px;height:217px;border:0;border-radius:18px;"></div>
-<table role="presentation" class="kit-list" width="380" cellpadding="0" cellspacing="0" border="0" align="center" style="margin:22px auto 0;width:380px;text-align:left;">
+<table role="presentation" class="kit-list" width="380" cellpadding="0" cellspacing="0" border="0" align="center" style="margin:26px auto 0;width:380px;text-align:left;">
 <tr><td width="36" valign="middle" style="width:36px;padding:9px 0;"><img src="../exports/klaviyo/bf-2026/img/kit-percent.png" width="24" height="24" alt="" role="presentation" style="display:block;width:24px;height:24px;border:0;"></td><td valign="middle" style="padding:9px 0;font-family:'Montserrat','Helvetica Neue',Helvetica,Arial,sans-serif;font-size:15px;line-height:21px;font-weight:700;color:#2A1A14;border-bottom:1px solid #EFDFC6;">Save 40% off your first order</td></tr>
 <tr><td width="36" valign="middle" style="width:36px;padding:9px 0;"><img src="../exports/klaviyo/bf-2026/img/kit-gift.png" width="24" height="24" alt="" role="presentation" style="display:block;width:24px;height:24px;border:0;"></td><td valign="middle" style="padding:9px 0;font-family:'Montserrat','Helvetica Neue',Helvetica,Arial,sans-serif;font-size:15px;line-height:21px;font-weight:700;color:#2A1A14;border-bottom:1px solid #EFDFC6;">FREE Frother + FREE Scooper</td></tr>
 <tr><td width="36" valign="middle" style="width:36px;padding:9px 0;"><img src="../exports/klaviyo/bf-2026/img/kit-truck.png" width="24" height="24" alt="" role="presentation" style="display:block;width:24px;height:24px;border:0;"></td><td valign="middle" style="padding:9px 0;font-family:'Montserrat','Helvetica Neue',Helvetica,Arial,sans-serif;font-size:15px;line-height:21px;font-weight:700;color:#2A1A14;border-bottom:1px solid #EFDFC6;">Delivered to your door every month</td></tr>
@@ -133,13 +134,14 @@ body{margin:0;background:#FFFFFF;padding:28px 0 60px}
 <td class="card-col" align="center" valign="top" width="50%" style="width:50%;padding:0 8px;">
 <table role="presentation" cellpadding="0" cellspacing="0" border="0" align="center" style="margin:0 auto;border-collapse:separate;"><tr><td bgcolor="#D2A346" style="background-color:#D2A346;background-image:linear-gradient(135deg,#F8E79A 0%,#E6BE5A 28%,#C48F2C 55%,#EFD27C 80%,#D5A84A 100%);border-radius:9px 9px 0 0;padding:5px 14px;font-family:'Montserrat','Helvetica Neue',Helvetica,Arial,sans-serif;font-size:10px;line-height:14px;font-weight:700;letter-spacing:1.5px;text-transform:uppercase;color:#FFFFFF;text-shadow:0 1px 1px rgba(90,55,10,.55);white-space:nowrap;">Lion’s Mane</td></tr></table>
 <a href="https://milonga.life/products/lion-s-mane?selling_plan=6832750902&amp;variant=53053588701494&amp;utm_source=klaviyo&amp;utm_medium=email&amp;utm_campaign=black_friday_2026&amp;utm_content=bf_cans_lm" target="_blank" style="text-decoration:none;display:block;">
-<table role="presentation" width="100%" cellpadding="0" cellspacing="0" border="0" style="border-collapse:separate;"><tr><td class="card" align="center" bgcolor="#FFFBF5" style="background-color:#FFFBF5;border:1px solid #EAD6B4;border-radius:18px;padding:20px 10px 18px;font-family:'Montserrat','Helvetica Neue',Helvetica,Arial,sans-serif;box-shadow:0 6px 18px rgba(60,30,10,.18);">
-<div style="font-size:14px;line-height:18px;font-weight:700;color:#004D27;">24 cans</div>
+<table role="presentation" width="100%" cellpadding="0" cellspacing="0" border="0" style="border-collapse:separate;"><tr><td class="card" align="center" bgcolor="#F6E6DC" style="background-color:#F6E6DC;background-image:linear-gradient(180deg,#FCF4EE 0%,#F4E1D5 100%);border:1px solid #EBD3C4;border-radius:18px;padding:20px 10px 18px;font-family:'Montserrat','Helvetica Neue',Helvetica,Arial,sans-serif;box-shadow:0 6px 18px rgba(60,30,10,.18);">
+<div style="font-size:14px;line-height:18px;font-weight:700;color:#141414;">24 cans</div>
 <div class="c-price" style="padding-top:6px;font-size:34px;line-height:38px;font-weight:700;color:#2A1A14;">$52.92</div>
 <div style="padding-top:2px;font-size:14px;line-height:18px;font-weight:700;color:#8A7A70;text-decoration:line-through;">$75.60</div>
 <img class="c-img" src="../exports/klaviyo/bf-2026/img/cans-lm.png" width="210" height="140" alt="Lion’s Mane cans" style="display:block;margin:8px auto 4px;width:210px;height:140px;border:0;">
+<div style="padding:2px 0 8px;font-size:11px;line-height:14px;font-weight:700;letter-spacing:1.5px;text-transform:uppercase;color:#2A1A14;">Monthly Starter Kit</div>
 <table role="presentation" cellpadding="0" cellspacing="0" border="0" align="center" style="margin:0 auto;border-collapse:separate;"><tr><td bgcolor="#D2A346" style="background-color:#D2A346;background-image:linear-gradient(135deg,#F8E79A 0%,#E6BE5A 28%,#C48F2C 55%,#EFD27C 80%,#D5A84A 100%);border-radius:999px;padding:7px 18px;font-family:'Montserrat','Helvetica Neue',Helvetica,Arial,sans-serif;font-size:13px;line-height:16px;font-weight:700;letter-spacing:1px;color:#FFFFFF;text-shadow:0 1px 1px rgba(90,55,10,.55);white-space:nowrap;">Save 30%</td></tr></table>
-<div class="c-unit" style="padding-top:12px;font-size:14px;line-height:18px;font-weight:700;color:#004D27;">$2.21 / can</div>
+<div class="c-unit" style="padding-top:12px;font-size:14px;line-height:18px;font-weight:700;color:#141414;">$2.21 / can</div>
 <div style="padding-top:4px;font-size:12px;line-height:16px;font-weight:700;color:#5A4A42;">then $60.48/mo</div>
 </td></tr></table>
 </a>
@@ -147,13 +149,14 @@ body{margin:0;background:#FFFFFF;padding:28px 0 60px}
 <td class="card-col" align="center" valign="top" width="50%" style="width:50%;padding:0 8px;">
 <table role="presentation" cellpadding="0" cellspacing="0" border="0" align="center" style="margin:0 auto;border-collapse:separate;"><tr><td bgcolor="#D2A346" style="background-color:#D2A346;background-image:linear-gradient(135deg,#F8E79A 0%,#E6BE5A 28%,#C48F2C 55%,#EFD27C 80%,#D5A84A 100%);border-radius:9px 9px 0 0;padding:5px 14px;font-family:'Montserrat','Helvetica Neue',Helvetica,Arial,sans-serif;font-size:10px;line-height:14px;font-weight:700;letter-spacing:1.5px;text-transform:uppercase;color:#FFFFFF;text-shadow:0 1px 1px rgba(90,55,10,.55);white-space:nowrap;">Infused</td></tr></table>
 <a href="https://milonga.life/products/cannabis-regular-10mg?selling_plan=6832750902&amp;variant=52759098196278&amp;utm_source=klaviyo&amp;utm_medium=email&amp;utm_campaign=black_friday_2026&amp;utm_content=bf_cans_infused" target="_blank" style="text-decoration:none;display:block;">
-<table role="presentation" width="100%" cellpadding="0" cellspacing="0" border="0" style="border-collapse:separate;"><tr><td class="card" align="center" bgcolor="#FFFBF5" style="background-color:#FFFBF5;border:1px solid #EAD6B4;border-radius:18px;padding:20px 10px 18px;font-family:'Montserrat','Helvetica Neue',Helvetica,Arial,sans-serif;box-shadow:0 6px 18px rgba(60,30,10,.18);">
-<div style="font-size:14px;line-height:18px;font-weight:700;color:#004D27;">24 cans</div>
+<table role="presentation" width="100%" cellpadding="0" cellspacing="0" border="0" style="border-collapse:separate;"><tr><td class="card" align="center" bgcolor="#F6E6DC" style="background-color:#F6E6DC;background-image:linear-gradient(180deg,#FCF4EE 0%,#F4E1D5 100%);border:1px solid #EBD3C4;border-radius:18px;padding:20px 10px 18px;font-family:'Montserrat','Helvetica Neue',Helvetica,Arial,sans-serif;box-shadow:0 6px 18px rgba(60,30,10,.18);">
+<div style="font-size:14px;line-height:18px;font-weight:700;color:#141414;">24 cans</div>
 <div class="c-price" style="padding-top:6px;font-size:34px;line-height:38px;font-weight:700;color:#2A1A14;">$104.30</div>
 <div style="padding-top:2px;font-size:14px;line-height:18px;font-weight:700;color:#8A7A70;text-decoration:line-through;">$149.00</div>
 <img class="c-img" src="../exports/klaviyo/bf-2026/img/cans-inf.png" width="210" height="140" alt="Infused yerba mate cans" style="display:block;margin:8px auto 4px;width:210px;height:140px;border:0;">
+<div style="padding:2px 0 8px;font-size:11px;line-height:14px;font-weight:700;letter-spacing:1.5px;text-transform:uppercase;color:#2A1A14;">Monthly Starter Kit</div>
 <table role="presentation" cellpadding="0" cellspacing="0" border="0" align="center" style="margin:0 auto;border-collapse:separate;"><tr><td bgcolor="#D2A346" style="background-color:#D2A346;background-image:linear-gradient(135deg,#F8E79A 0%,#E6BE5A 28%,#C48F2C 55%,#EFD27C 80%,#D5A84A 100%);border-radius:999px;padding:7px 18px;font-family:'Montserrat','Helvetica Neue',Helvetica,Arial,sans-serif;font-size:13px;line-height:16px;font-weight:700;letter-spacing:1px;color:#FFFFFF;text-shadow:0 1px 1px rgba(90,55,10,.55);white-space:nowrap;">Save 30%</td></tr></table>
-<div class="c-unit" style="padding-top:12px;font-size:14px;line-height:18px;font-weight:700;color:#004D27;">$4.35 / can</div>
+<div class="c-unit" style="padding-top:12px;font-size:14px;line-height:18px;font-weight:700;color:#141414;">$4.35 / can</div>
 <div style="padding-top:4px;font-size:12px;line-height:16px;font-weight:700;color:#5A4A42;">then $119.20/mo</div>
 </td></tr></table>
 </a>
